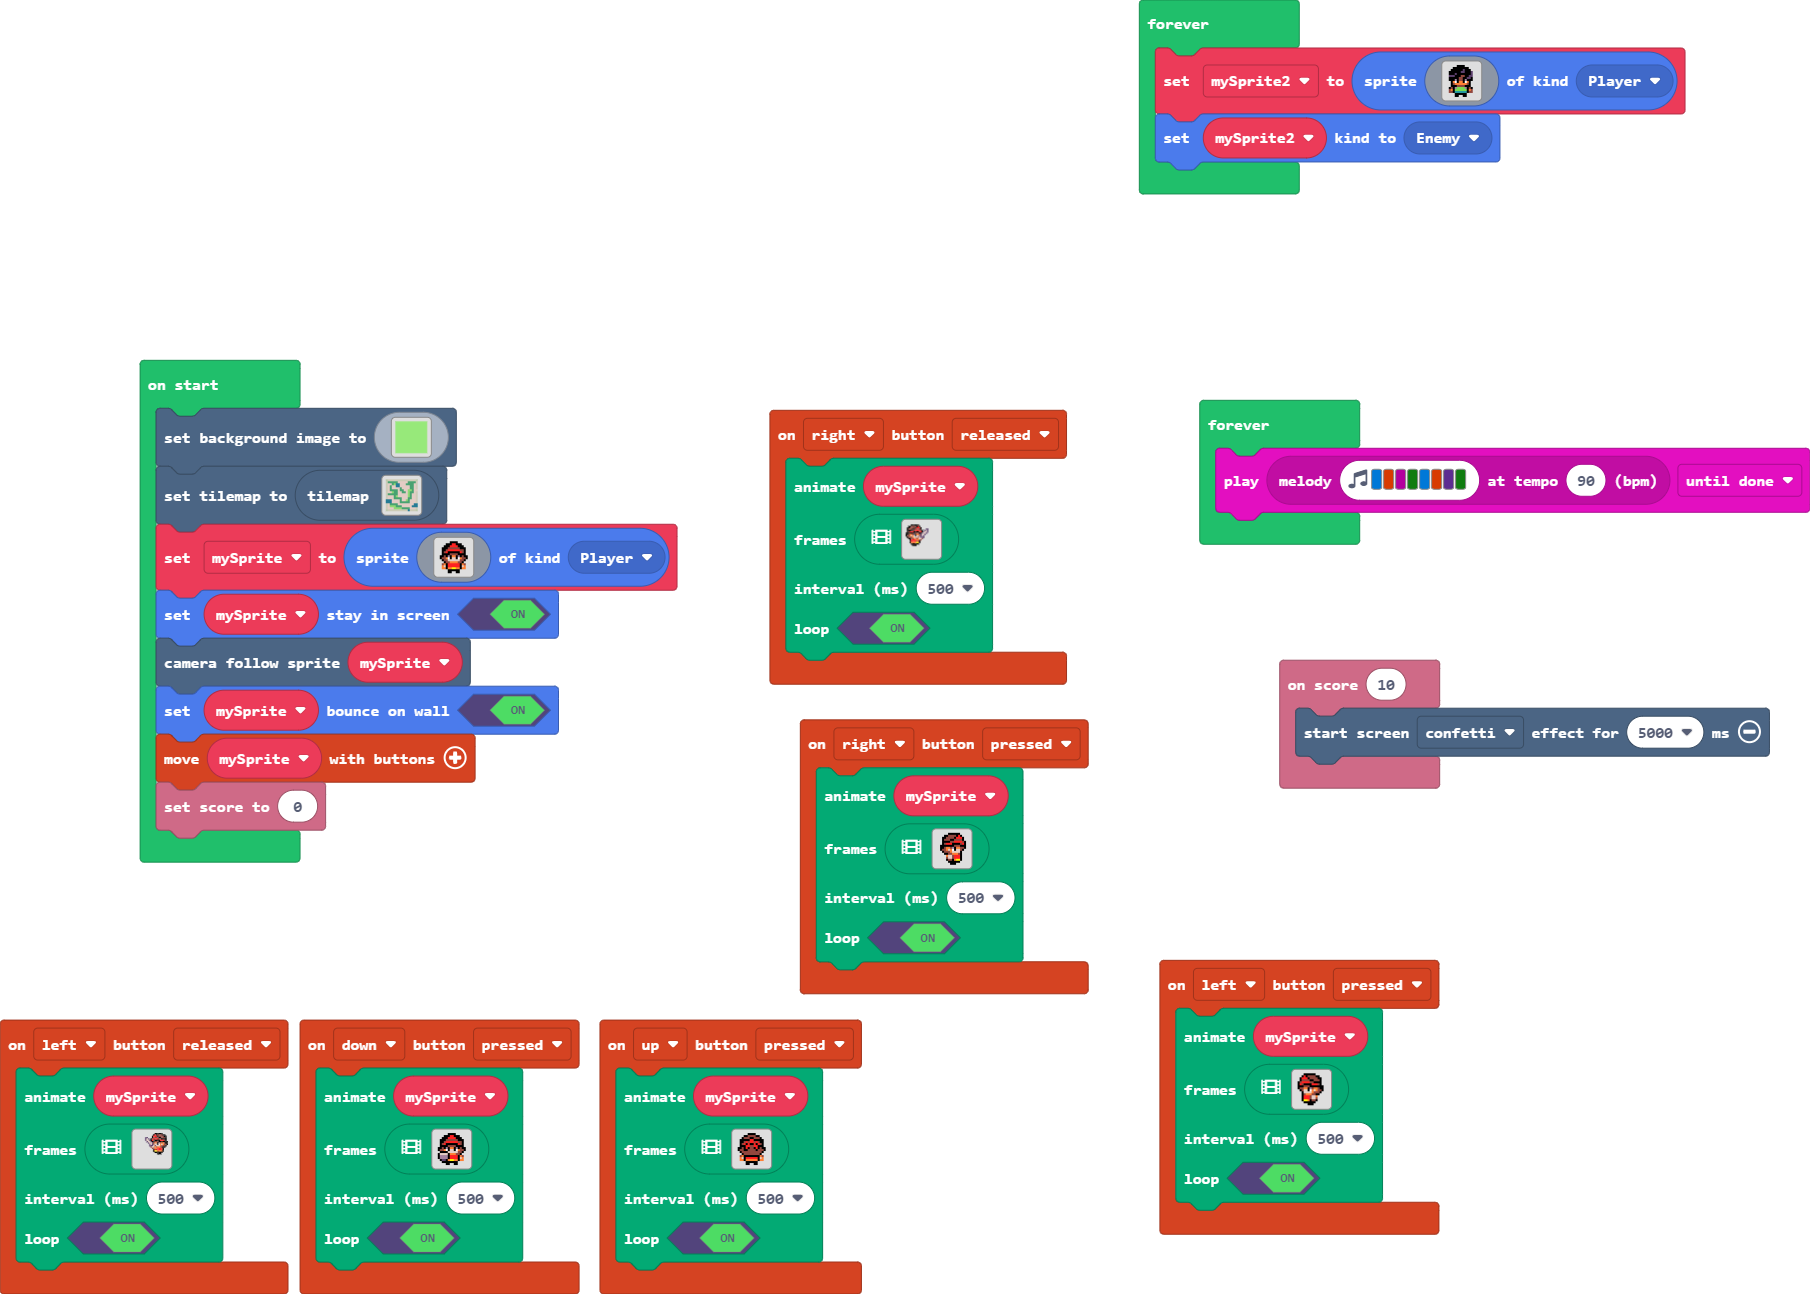
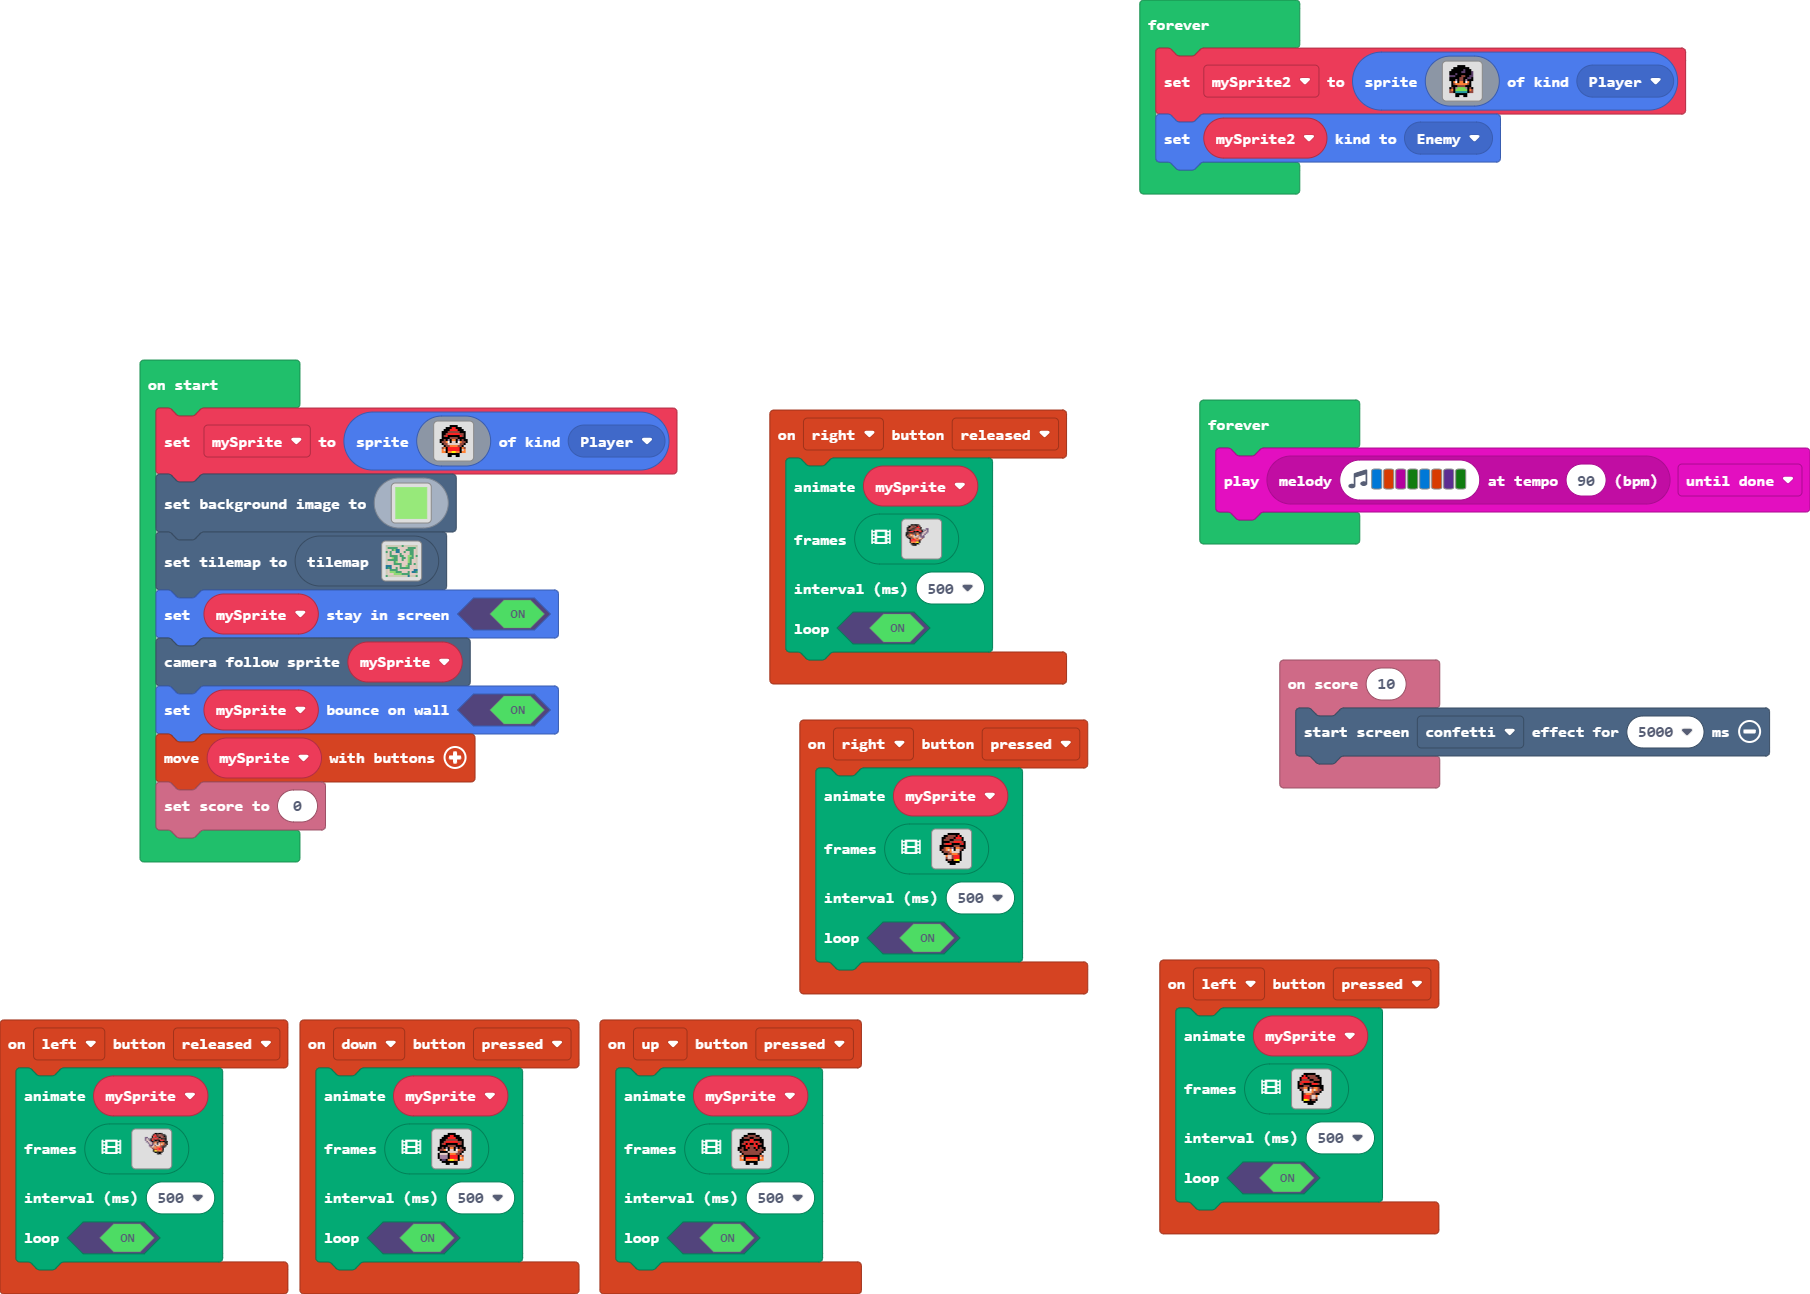
Update pxt.json, main.blocks, main.ts, tilemap.g.jres, tilemap.g.ts

diff --git a/tilemap.g.ts b/tilemap.g.ts
@@ -89,25 +89,6 @@ namespace myTiles {
 . . . . . . . . . . . . . . . . 
 . . . . . . . . . . . . . . . . 
 `, [myTiles.transparency16], TileScale.Sixteen);
-            case "level":
[1 lines of base64/hex data omitted]
-. . . . . . . . . . . . . . . . 
-. 2 2 2 2 2 . . . . . 2 2 2 2 . 
-. . . 2 2 . . . . . 2 2 2 2 . . 
-. . 2 . . . . . . . . . 2 2 . . 
-. . 2 . . . . 2 . . . . 2 2 . . 
-. . 2 2 2 2 . 2 2 . . 2 2 2 . . 
-. . . 2 2 2 . . 2 2 . 2 2 2 . . 
-. 2 2 2 2 2 . . . . . 2 2 . . . 
-. . . . 2 2 . . . . . 2 2 . . . 
-. . . . 2 2 2 2 . . . 2 2 . . . 
-. . . . . . . 2 . . 2 2 . . . . 
-. . . . . . . 2 2 2 2 2 . . . . 
-. . 2 2 2 2 . . . . . . . . . . 
-. . 2 2 2 2 2 2 . . . . . . . . 
-. . . . 2 2 2 2 2 2 2 2 . . . . 
-. . . . . . . . . . . . . . . . 
-`, [myTiles.transparency16,sprites.castle.tileGrass2,sprites.builtin.forestTiles0,sprites.castle.tilePath1,sprites.castle.tilePath2,sprites.castle.tilePath3,sprites.castle.tilePath6,sprites.castle.tilePath9,sprites.castle.tilePath8,sprites.castle.tilePath7,sprites.castle.tilePath4,sprites.castle.tilePath5,sprites.swamp.swampTile2], TileScale.Sixteen);
             case "level6":
             case "level6":return tiles.createTilemap(hex`1000100000000000000000000000000000000000000000000000000000000000000000000000000000000000000000000000000000000000000000000000000000000000000000000000000000000000000000000000000000000000000000000000000000000000000000000000000000000000000000000000000000000000000000000000000000000000000000000000000000000000000000000000000000000000000000000000000000000000000000000000000000000000000000000000000000000000000000000000000000000000000000000000000000000000000000000000000000000000000000000000000000000000000000000000000000000000`, img`
 . . . . . . . . . . . . . . . . 
@@ -168,6 +149,25 @@ namespace myTiles {
 . . . . . . . . 
 . . . . . . . . 
 `, [myTiles.transparency16,sprites.builtin.forestTiles5,sprites.builtin.forestTiles7,sprites.builtin.forestTiles13,sprites.builtin.forestTiles15,sprites.builtin.forestTiles14,sprites.builtin.forestTiles6,sprites.builtin.forestTiles11,sprites.builtin.forestTiles9,myTiles.tile4], TileScale.Sixteen);
+            case "level":
[1 lines of base64/hex data omitted]
+. . . . . . . . . . . . . . . . 
+. 2 2 2 2 2 . . . . . 2 2 2 2 . 
+. . . 2 2 . . . . . 2 2 2 2 . . 
+. . 2 . . . . . . . . . 2 2 . . 
+. . 2 . . . . 2 . . . . 2 2 . . 
+. . 2 2 2 2 . 2 2 . . 2 2 2 . . 
+. . . 2 2 2 . . 2 2 . 2 2 2 . . 
+. 2 2 2 2 2 . . . . . 2 2 . . . 
+. . . . 2 2 . . . . . 2 2 . . . 
+. . . . 2 2 2 2 . . . 2 2 . . . 
+. . . . . . . 2 . . 2 2 . . . . 
+. . . . . . . 2 2 2 2 2 . . . . 
+. . 2 2 2 2 . . . . . . . . . . 
+. . 2 2 2 2 2 2 . . . . . . . . 
+. . . . 2 2 2 2 2 2 2 2 . . . . 
+. . . . . . . . . . . . . . . . 
+`, [myTiles.transparency16,sprites.castle.tileGrass2,sprites.builtin.forestTiles0,sprites.castle.tilePath1,sprites.castle.tilePath2,sprites.castle.tilePath3,sprites.castle.tilePath6,sprites.castle.tilePath8,sprites.castle.tilePath4,sprites.castle.tilePath5,sprites.swamp.swampTile2], TileScale.Sixteen);
         }
         return null;
     })

diff --git a/main.ts b/main.ts
@@ -523,6 +523,24 @@ controller.down.onEvent(ControllerButtonEvent.Pressed, function () {
 })
 let mySprite2: Sprite = null
 let mySprite: Sprite = null
+mySprite = sprites.create(img`
+    . . . . . . f f f f . . . . . . 
+    . . . . f f f 2 2 f f f . . . . 
+    . . . f f f 2 2 2 2 f f f . . . 
+    . . f f f e e e e e e f f f . . 
+    . . f f e 2 2 2 2 2 2 e e f . . 
+    . . f e 2 f f f f f f 2 e f . . 
+    . . f f f f e e e e f f f f . . 
+    . f f e f b f 4 4 f b f e f f . 
+    . f e e 4 1 f d d f 1 4 e e f . 
+    . . f e e d d d d d d e e f . . 
+    . . . f e e 4 4 4 4 e e f . . . 
+    . . e 4 f 2 2 2 2 2 2 f 4 e . . 
+    . . 4 d f 2 2 2 2 2 2 f d 4 . . 
+    . . 4 4 f 4 4 5 5 4 4 f 4 4 . . 
+    . . . . . f f f f f f . . . . . 
+    . . . . . f f . . f f . . . . . 
+    `, SpriteKind.Player)
 scene.setBackgroundImage(img`
     7777777777777777777777777777777777777777777777777777777777777777777777777777777777777777777777777777777777777777777777777777777777777777777777777777777777777777
     7777777777777777777777777777777777777777777777777777777777777777777777777777777777777777777777777777777777777777777777777777777777777777777777777777777777777777
@@ -686,24 +704,6 @@ scene.setBackgroundImage(img`
     7777777777777777777777777777777777777777777777777777777777777777777777777777777777777777777777777777777777777777777777777777777777777777777777777777777777777777
     `)
 tiles.setCurrentTilemap(tilemap`level`)
-mySprite = sprites.create(img`
-    . . . . . . f f f f . . . . . . 
-    . . . . f f f 2 2 f f f . . . . 
-    . . . f f f 2 2 2 2 f f f . . . 
-    . . f f f e e e e e e f f f . . 
-    . . f f e 2 2 2 2 2 2 e e f . . 
-    . . f e 2 f f f f f f 2 e f . . 
-    . . f f f f e e e e f f f f . . 
-    . f f e f b f 4 4 f b f e f f . 
-    . f e e 4 1 f d d f 1 4 e e f . 
-    . . f e e d d d d d d e e f . . 
-    . . . f e e 4 4 4 4 e e f . . . 
-    . . e 4 f 2 2 2 2 2 2 f 4 e . . 
-    . . 4 d f 2 2 2 2 2 2 f d 4 . . 
-    . . 4 4 f 4 4 5 5 4 4 f 4 4 . . 
-    . . . . . f f f f f f . . . . . 
-    . . . . . f f . . f f . . . . . 
-    `, SpriteKind.Player)
 mySprite.setStayInScreen(true)
 scene.cameraFollowSprite(mySprite)
 mySprite.setBounceOnWall(true)
@@ -733,3 +733,4 @@ forever(function () {
 forever(function () {
     music.play(music.stringPlayable("E B C G E B D G ", 90), music.PlaybackMode.UntilDone)
 })
+set Sprite life3
